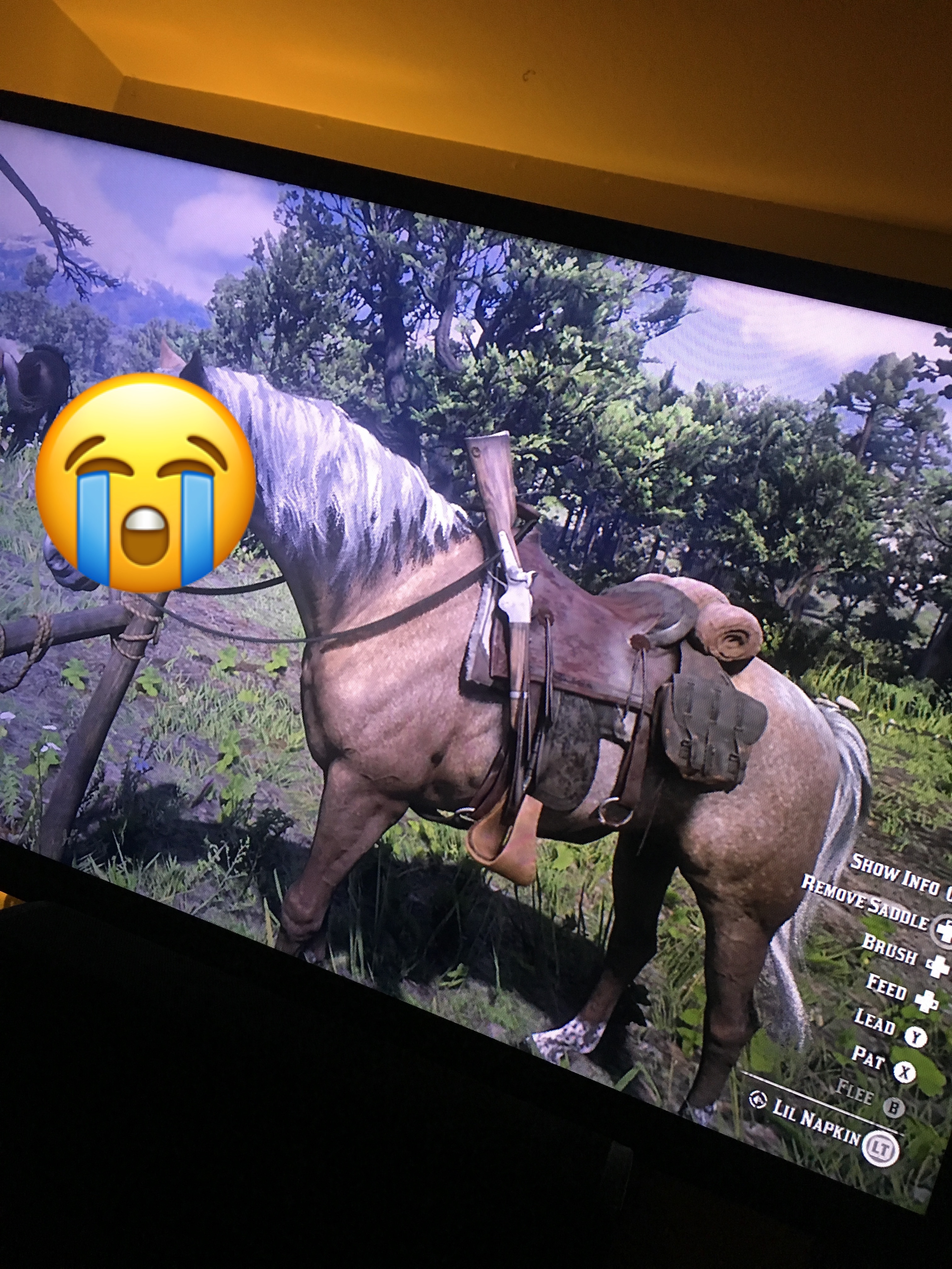
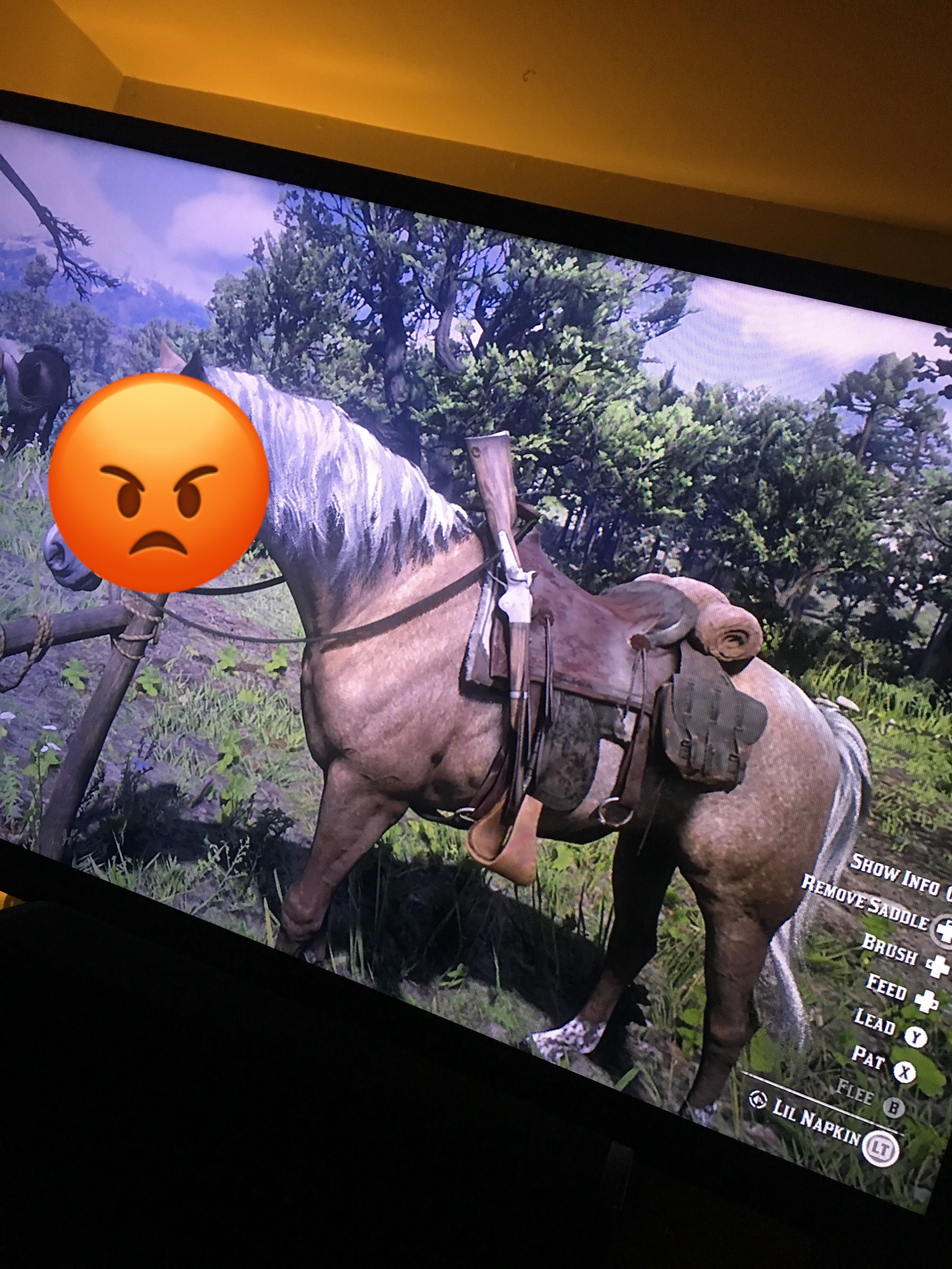
added compressed forbidden image

Changed region(s): [[0.0311, 0.2812, 0.2798, 0.4688]]

diff --git a/custom_403.html b/custom_403.html
@@ -18,7 +18,7 @@
 
 <body>
   <h1 style='color:red'>Error 403: Forbidden >:-(</h1>
-  <img height="442" width="442" src="/lil-napkin-forbidden.png" alt="Lil Napkin">
+  <img height="442" width="442" src="/lil-napkin-forbidden-min.png" alt="Lil Napkin">
 </body>
 
 </html>
